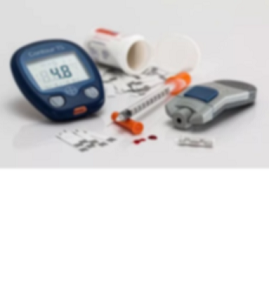
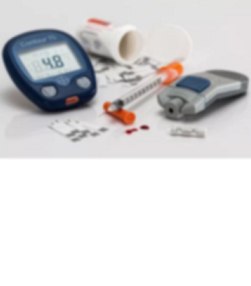
Alterações no design

Changed region(s): [[0.0, 0.0559, 1.0, 0.5874]]

diff --git a/src/app/home/home.page.scss b/src/app/home/home.page.scss
@@ -1,16 +1,16 @@
 ion-content {
-  --background: url('../../assets/diabetes7.png') no-repeat center center / cover;
+  --background: url('../../assets/diabetes3.jpeg') no-repeat center center / cover;
 }
 
 .botaoIniciar{
-  margin-top: 100px;
+  margin-top: 90px;
   display: flex;
   justify-content: center;
   align-items: center;
 }
 
 .botaoInfo{
-  margin-top: 180px;
+  margin-top: 190px;
   display: flex;
   justify-content: right;
   align-items: right;
@@ -19,25 +19,25 @@ ion-content {
 .titulo{
   margin-top: 90px;
   text-align: center;
-  color: rgb(10, 10, 10);
+  color: rgb(6, 5, 58);
   font-family:Impact, Haettenschweiler, 'Arial Narrow Bold', sans-serif;
   font-size: 50px;
   font-style: italic;
 }
 
 .descricao{
-  margin-top: 40px;
+  margin-top: 50px;
   text-align: center;
-  color: rgb(12, 11, 11);
+  color: rgb(14, 7, 80);
   font-family: 'Franklin Gothic Medium', 'Arial Narrow', Arial, sans-serif;
   font-size: 22px;
   font-style: bold;
 }
 
 .descricao2{
-  margin-top: 100px;
+  margin-top: 40px;
   text-align: center;
   color: rgb(13, 14, 12);
-  font-family:Impact, Haettenschweiler, 'Arial Narrow Bold', sans-serif;
-  font-size: 18px;
+  font-family:'Franklin Gothic Medium', 'Arial Narrow', Arial, sans-serif;
+  font-size: 20px;
 }

diff --git a/src/app/home/home.page.html b/src/app/home/home.page.html
@@ -11,17 +11,21 @@
     verificar seu risco de diabetes
   </div>
 
-  <div class="botaoIniciar">
-    <ion-button size="large" [routerLink]="['/calcular-diabetes']" routerDirection="forward">Iniciar</ion-button>
+  <div  class="botaoIniciar">
+    <ion-button color="tertiary" [routerLink]="['/calcular-diabetes']" routerDirection="forward">INICIAR</ion-button>
   </div>
 
   <div class="descricao2">
-    Bem vindo ao aplicativo "nomeApp"! <br>
-    Através dele você poderá cadastrar usuários <br>
-    e empresas. Também poderá atualizar seus dados.
+    Bem vindo ao aplicativo  DiabetesCheck! <br>
+    Ao informar seus dados você poderá <br>
+    verificar seu risco de ter diabetes.<br>
+    Responder com sinceridade  a todos os <br> 
+    itens é fundamental para um resultado <br> 
+    correto.<br>
+
   </div>
 
   <div class="botaoInfo">
-    <ion-button (click)="maisInfo()">Mais informações</ion-button>
+   <ion-router-link (click)="maisInfo()" style="color: rgb(19, 10, 134);">Mais informações</ion-router-link>
   </div>
 </ion-content>

diff --git a/src/app/calcular-diabetes/calcular-diabetes.page.html b/src/app/calcular-diabetes/calcular-diabetes.page.html
@@ -4,9 +4,12 @@
   </ion-toolbar>
 </ion-header>
 <ion-content [fullscreen]="true">
+  <br>
+  <h3 style="text-align: center;"> Informe os seguintes dados:</h3>
+  <br>
   <ion-list>
     <ion-item>
-      <ion-label position="stacked">Idade:*</ion-label>
+      <ion-label position="stacked" >Idade:*</ion-label>
       <ion-input name="idade" [(ngModel)]="idade" type="number"> </ion-input>
     </ion-item>
     <ion-item>
@@ -38,7 +41,7 @@
       <ion-input name="escolaridade" [(ngModel)]="escolaridade" type="text"> </ion-input>
     </ion-item>
   </ion-list>
-
-  <ion-button type="submit" expand="block" color="success" (click)="calcularDiabetes()">Calcular</ion-button>
-  <ion-button type="button" expand="block" color="danger"  [routerLink]="['/home']" routerDirection="forward"> Cancelar </ion-button>
+  <br>
+  <ion-button type="submit" color="success" (click)="calcularDiabetes()">Calcular</ion-button>
+  <ion-button type="button" color="danger"  [routerLink]="['/home']" routerDirection="forward"> Cancelar </ion-button>
 </ion-content>

diff --git a/src/theme/variables.scss b/src/theme/variables.scss
@@ -20,7 +20,7 @@
   --ion-color-secondary-tint: #50c8ff;
 
   /** tertiary **/
-  --ion-color-tertiary: #5260ff;
+  --ion-color-tertiary: #619ae6;
   --ion-color-tertiary-rgb: 82, 96, 255;
   --ion-color-tertiary-contrast: #ffffff;
   --ion-color-tertiary-contrast-rgb: 255, 255, 255;
